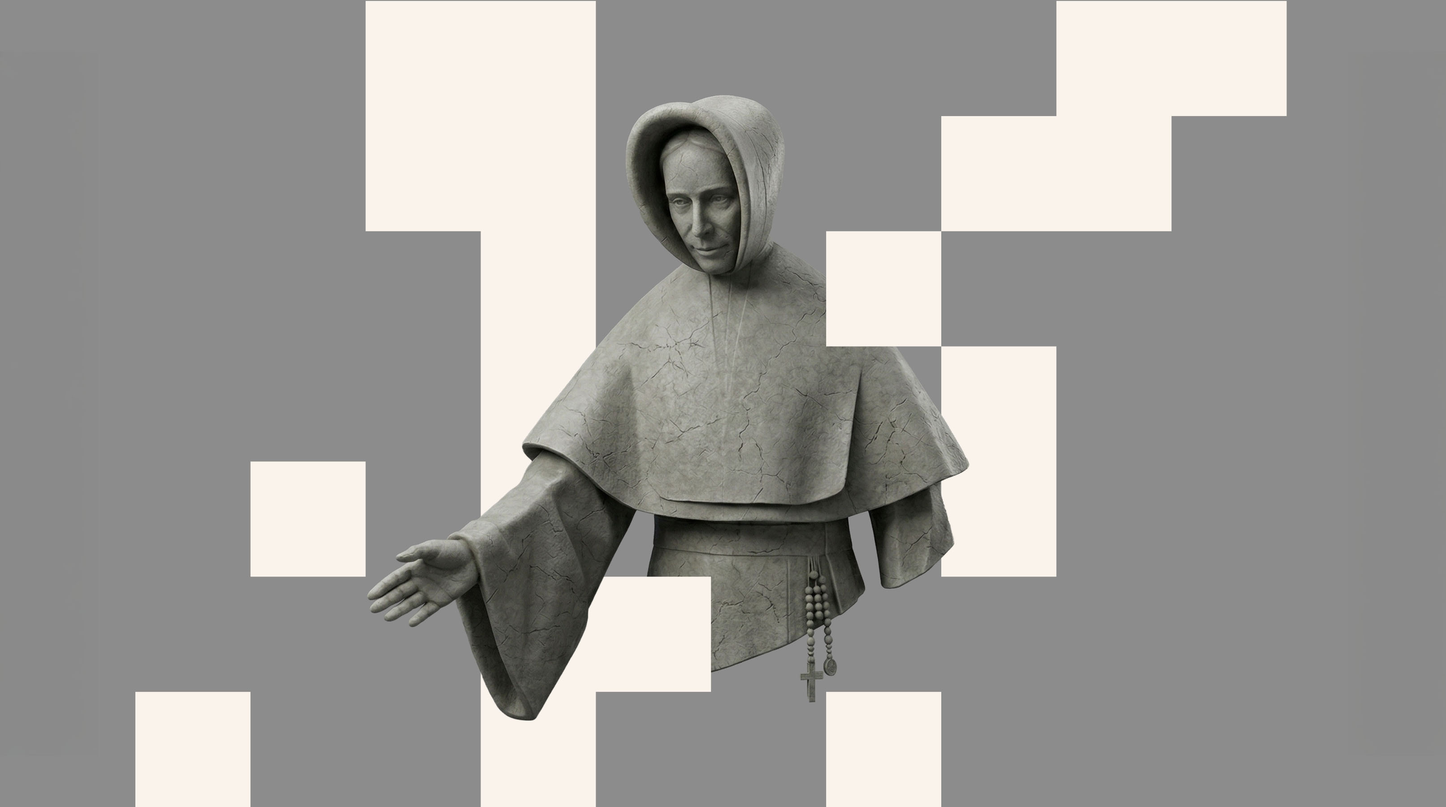
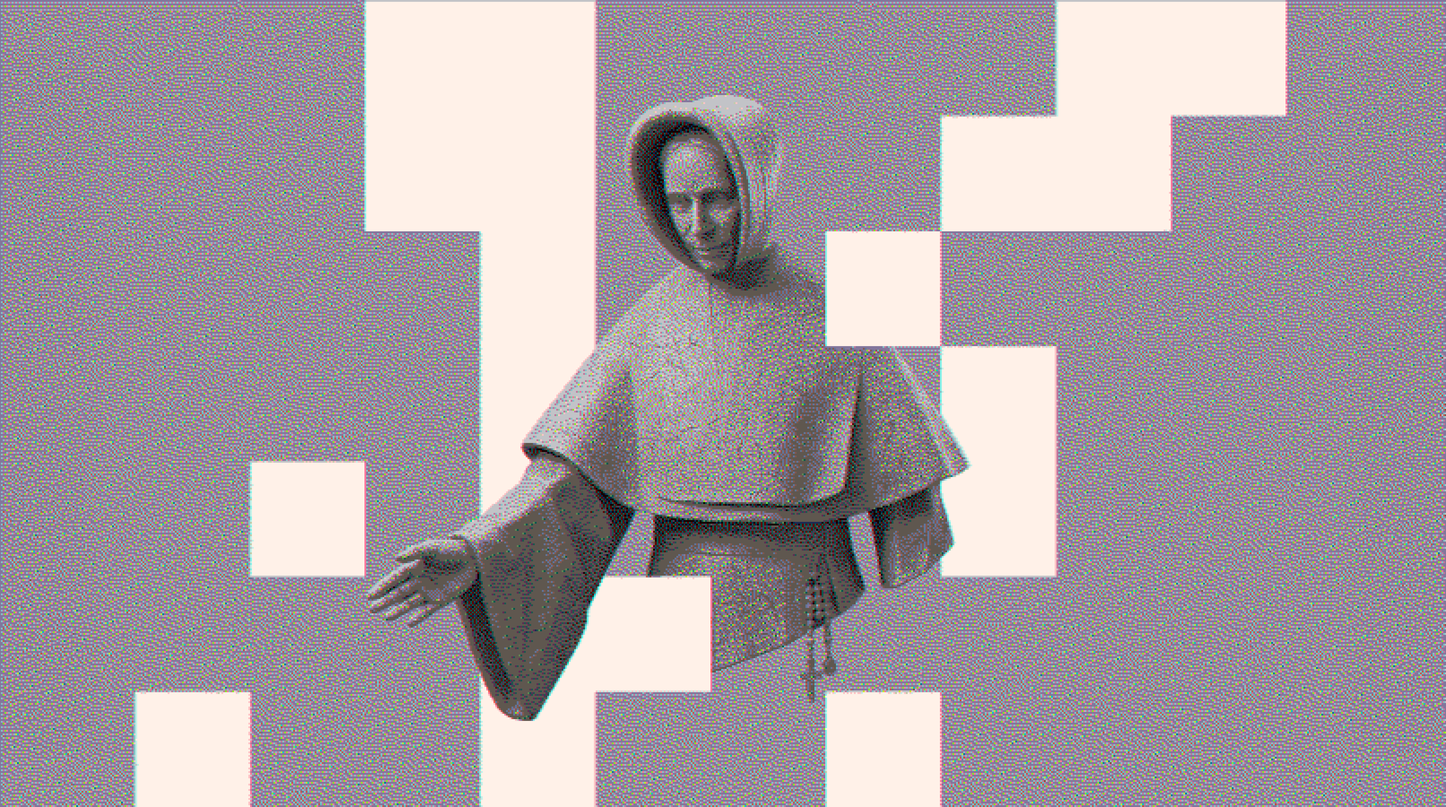
fix: script tag warnings, hydration mismatch, dark mode text color
- Replace inline scripts with next/script components
- Fix ThemeToggle hydration with useSyncExternalStore
- Dark mode text now warm off-white (#d4d0c8) instead of pure white
- New dithered hero images for desktop and mobile

Authored by Vanja

diff --git a/src/app/layout.tsx b/src/app/layout.tsx
@@ -1,4 +1,5 @@
 import type { Metadata } from "next"
+import Script from "next/script"
 import { GoogleAnalytics } from "@next/third-parties/google"
 import "./globals.css"
 
@@ -32,45 +33,31 @@ export default function RootLayout({
   children: React.ReactNode
 }>) {
   return (
-    <html className="h-full">
+    <html className="h-full" suppressHydrationWarning>
       <head>
         <meta name="viewport" content="width=device-width, initial-scale=1, maximum-scale=1" />
-        <script
-          dangerouslySetInnerHTML={{
-            __html: `(function(){try{var t=localStorage.getItem('theme');if(t)document.documentElement.setAttribute('data-theme',t);else if(window.matchMedia('(prefers-color-scheme:dark)').matches)document.documentElement.setAttribute('data-theme','dark')}catch(e){}})()`,
-          }}
-        />
-        <script
-          type="application/ld+json"
-          dangerouslySetInnerHTML={{
-            __html: JSON.stringify({
-              "@context": "https://schema.org",
-              "@type": "WebSite",
-              name: "MTL Metro",
-              url: "https://mtlmetromap.com",
-              description:
-                "Montreal Metro route finder. Plan your trip across Metro, REM, and Exo commuter trains.",
-              potentialAction: {
-                "@type": "SearchAction",
-                target: "https://mtlmetromap.com/en/?q={search_term_string}",
-                "query-input": "required name=search_term_string",
-              },
-            }),
-          }}
-        />
-        <script
-          dangerouslySetInnerHTML={{
-            __html: `
-              if ('serviceWorker' in navigator && window.location.hostname !== 'localhost') {
-                window.addEventListener('load', function() {
-                  navigator.serviceWorker.register('/sw.js');
-                });
-              }
-            `,
-          }}
-        />
       </head>
       <body className="min-h-full flex flex-col antialiased overflow-x-hidden">
+        <Script id="theme-init" strategy="beforeInteractive">
+          {`(function(){try{var t=localStorage.getItem('theme');if(t)document.documentElement.setAttribute('data-theme',t);else if(window.matchMedia('(prefers-color-scheme:dark)').matches)document.documentElement.setAttribute('data-theme','dark')}catch(e){}})()`}
+        </Script>
+        <Script id="json-ld" type="application/ld+json" strategy="afterInteractive">
+          {JSON.stringify({
+            "@context": "https://schema.org",
+            "@type": "WebSite",
+            name: "MTL Metro",
+            url: "https://mtlmetromap.com",
+            description: "Montreal Metro route finder. Plan your trip across Metro, REM, and Exo commuter trains.",
+            potentialAction: {
+              "@type": "SearchAction",
+              target: "https://mtlmetromap.com/en/?q={search_term_string}",
+              "query-input": "required name=search_term_string",
+            },
+          })}
+        </Script>
+        <Script id="sw-register" strategy="afterInteractive">
+          {`if('serviceWorker' in navigator && window.location.hostname !== 'localhost'){window.addEventListener('load',function(){navigator.serviceWorker.register('/sw.js')})}`}
+        </Script>
         {children}
         <GoogleAnalytics gaId="G-YJMD4ND0V5" />
       </body>

diff --git a/src/components/ThemeToggle.tsx b/src/components/ThemeToggle.tsx
@@ -1,25 +1,36 @@
 "use client"
 
-import { useState, useCallback } from "react"
+import { useCallback, useSyncExternalStore } from "react"
+
+function getThemeSnapshot() {
+  return document.documentElement.getAttribute("data-theme") === "dark"
+}
+
+function getServerSnapshot() {
+  return false
+}
+
+function subscribeTheme(cb: () => void) {
+  const observer = new MutationObserver(cb)
+  observer.observe(document.documentElement, { attributes: true, attributeFilter: ["data-theme"] })
+  return () => observer.disconnect()
+}
 
 export default function ThemeToggle() {
-  const [isDark, setIsDark] = useState(() => {
-    if (typeof window === "undefined") return false
-    return document.documentElement.getAttribute("data-theme") === "dark"
-  })
+  const isDark = useSyncExternalStore(subscribeTheme, getThemeSnapshot, getServerSnapshot)
 
   const toggle = useCallback(() => {
     const next = isDark ? "light" : "dark"
     document.documentElement.setAttribute("data-theme", next)
     localStorage.setItem("theme", next)
-    setIsDark(!isDark)
   }, [isDark])
 
   return (
     <button
       onClick={toggle}
       aria-label={isDark ? "Switch to light mode" : "Switch to dark mode"}
-      className="p-2 rounded-lg text-[var(--text-muted)] hover:text-[var(--text-primary)] hover:bg-[var(--surface-inset)] transition-colors"
+      className="p-2 text-[var(--text-muted)] hover:text-[var(--text-primary)] hover:bg-[var(--surface-inset)] transition-colors"
+      suppressHydrationWarning
     >
       {isDark ? (
         <svg width="16" height="16" viewBox="0 0 24 24" fill="none" stroke="currentColor" strokeWidth="2" strokeLinecap="round" strokeLinejoin="round" aria-hidden="true">

diff --git a/src/app/globals.css b/src/app/globals.css
@@ -88,11 +88,11 @@
   --surface: #1a1a1a;
   --surface-elevated: #242424;
   --surface-inset: #2a2a2a;
-  --border: #f0f0ee;
+  --border: #d4d0c8;
   --border-subtle: #333333;
-  --text-primary: #f0f0ee;
-  --text-secondary: #a8a8a3;
-  --text-muted: #6b6b66;
+  --text-primary: #d4d0c8;
+  --text-secondary: #b0ada6;
+  --text-muted: #7a7a74;
   --hero-bg: #0a0e18;
   --hero-surface: rgba(255, 255, 255, 0.08);
   --hero-border: rgba(255, 255, 255, 0.12);
